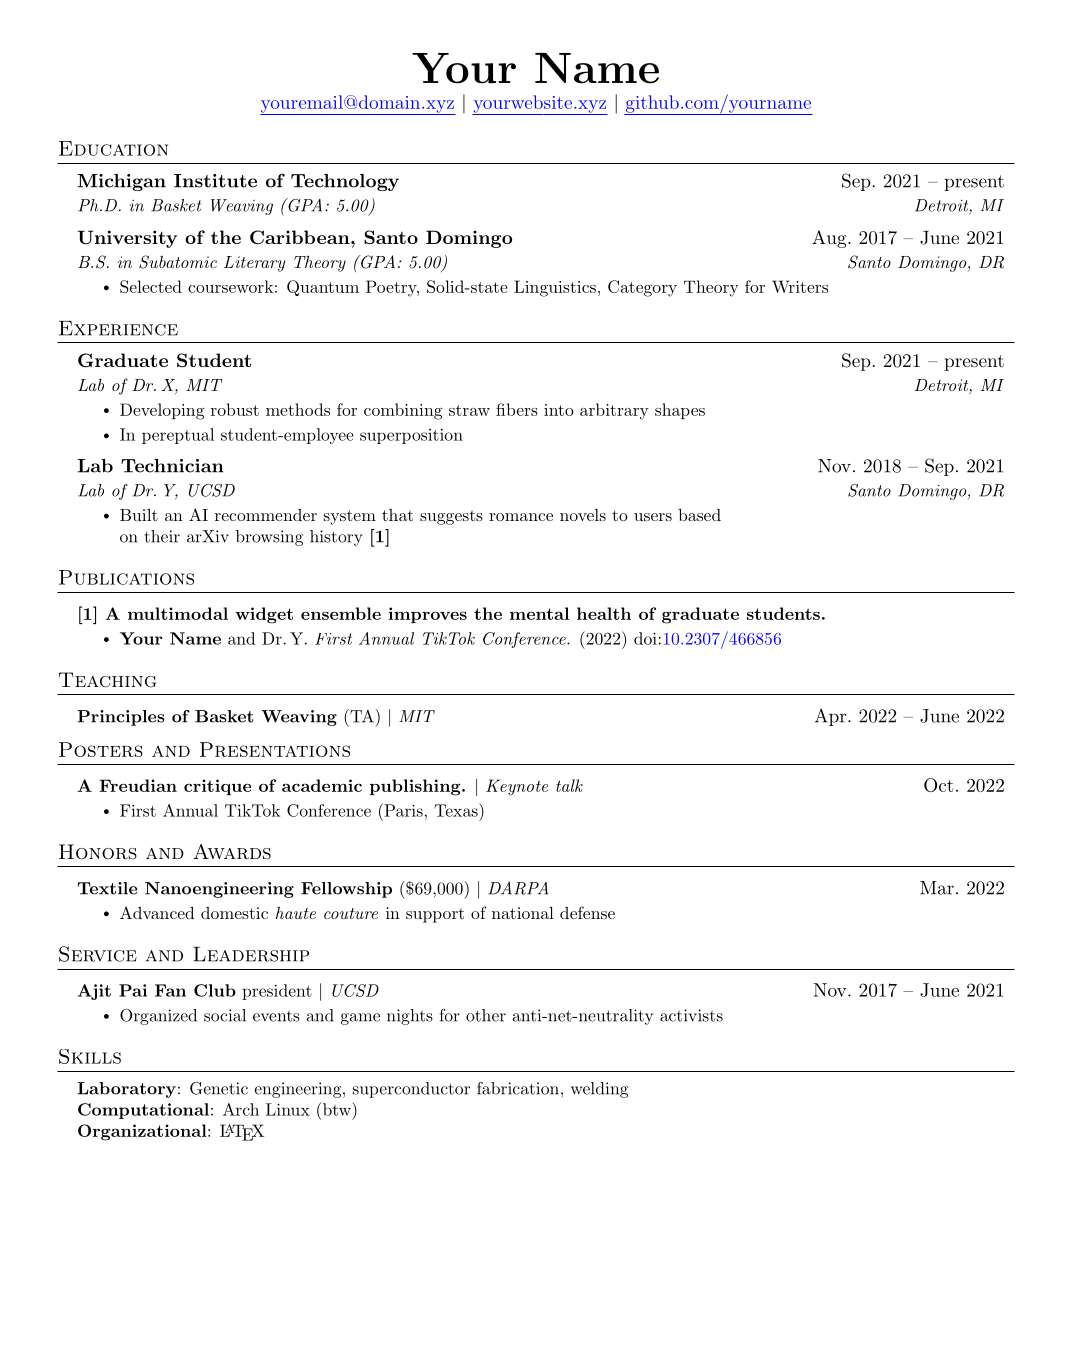
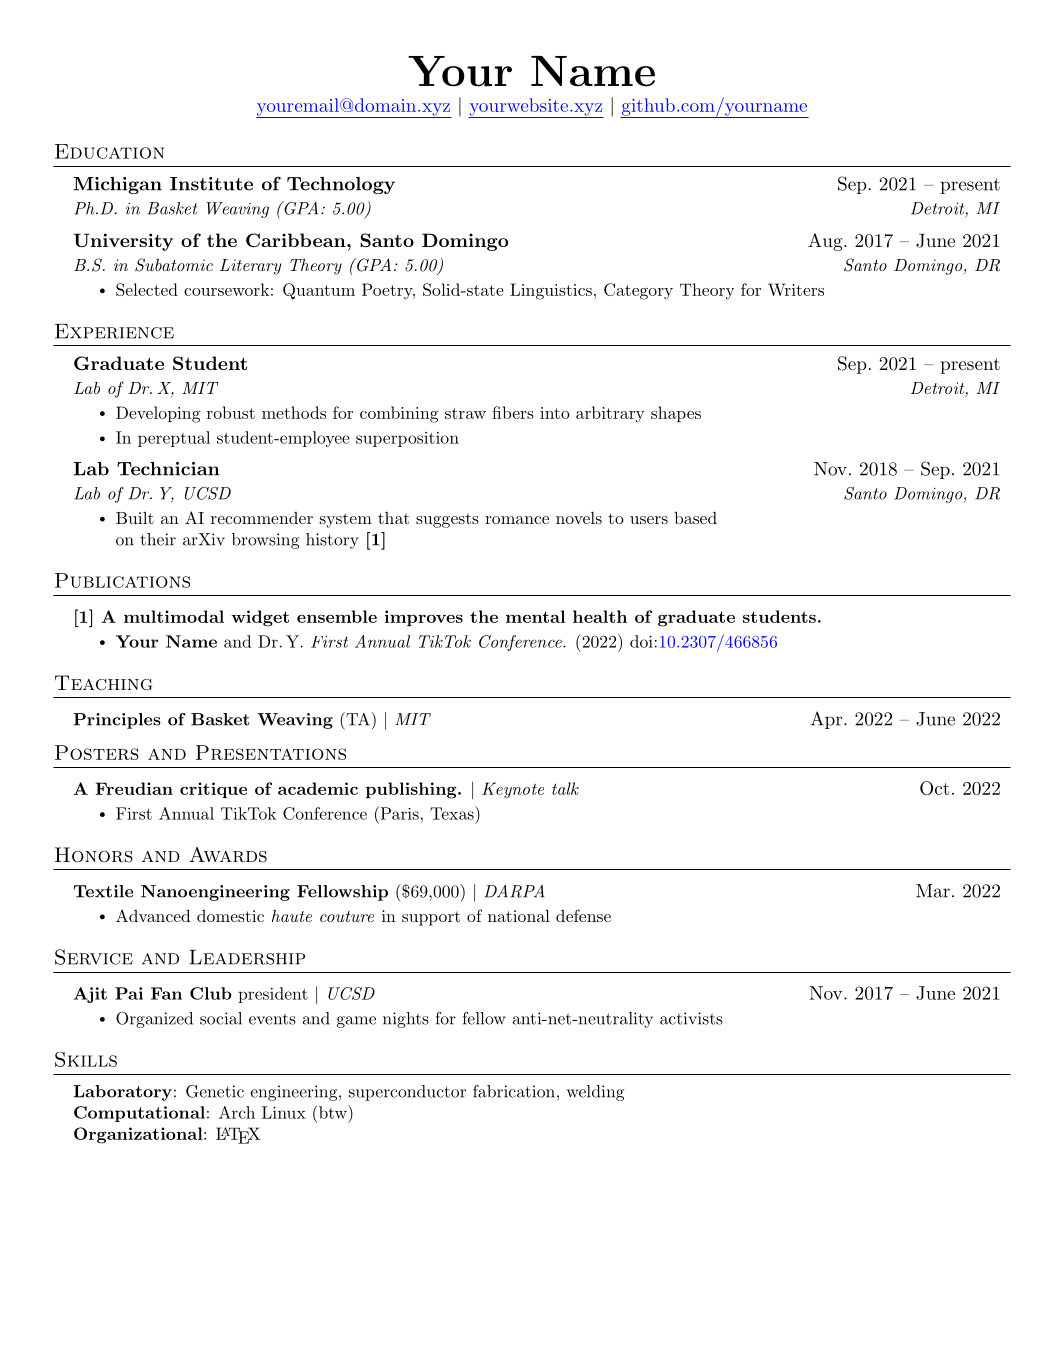
cleanup readme

diff --git a/template.tex b/template.tex
@@ -208,7 +208,7 @@
       {\textbf{Ajit Pai Fan Club} president $|$ \emph{UCSD}}{Nov.\ 2017 -- June\ 2021}
       {}{}
       \resumeItemListStart
-        \resumeItem{Organized social events and game nights for other anti-net-neutrality activists}
+        \resumeItem{Organized social events and game nights for fellow anti-net-neutrality activists}
       \resumeItemListEnd
   \resumeSubHeadingListEnd
 

diff --git a/README.md b/README.md
@@ -3,6 +3,7 @@ LaTeX template for my personal resume
 
 Forked from [jakegut/resume](https://github.com/jakegut/resume)
 
-Content mine, but the template is MIT licensed; feel free to use/modify it! Sample pic below may not be up-to-date:
+To start, you'll want the `template.tex` file; it's the same format as `cv.tex`, just without my personal information. The template is MIT licensed, so feel free to use/modify it as you like! Sample pic below:
+
 
 ![Resume Preview](resume.png)
